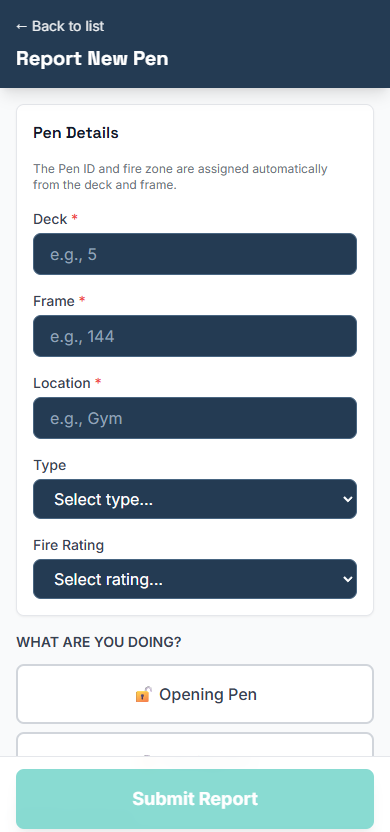
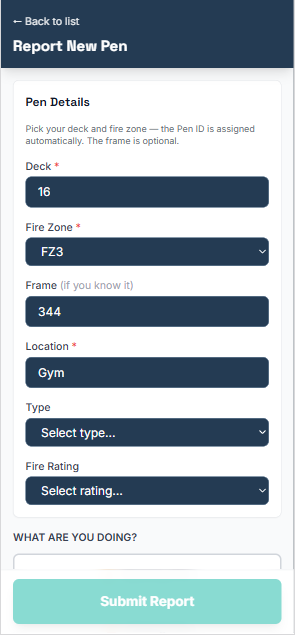
Contractor guide: fire-zone dropdown (frame optional)
Update the "Report New Pen" screenshot to the new fire-zone-picker form and the
step-2 wording (pick deck + fire zone; frame optional) to match the shipped change.

Changed region(s): [[0.0, 0.0, 1.0, 1.0]]

diff --git a/contractors.html b/contractors.html
@@ -104,11 +104,11 @@
                 <div class="step-num w-9 h-9 rounded-full bg-teal-500 text-white font-bold text-base flex items-center justify-center mb-4">2</div>
                 <h2 class="text-xl font-bold text-navy-900 mb-2">Choose your pen</h2>
                 <p class="text-gray-600 mb-2"><strong class="text-navy-900">Tap a penetration</strong> in your list to update it &mdash; or tap <strong class="text-navy-900">+ Report New Pen</strong> to log a new one.</p>
-                <p class="text-gray-600">For a new pen, just enter the <strong class="text-navy-900">deck, frame and location</strong>; the Pen&nbsp;ID and fire zone are worked out for you.</p>
+                <p class="text-gray-600">For a new pen, just pick the <strong class="text-navy-900">deck, fire zone and location</strong>; the Pen&nbsp;ID is worked out for you. Frame is optional.</p>
             </div>
             <div class="shrink-0 flex gap-3">
                 <div class="phone" style="width:152px"><img src="img/contractors/02-list.png" alt="List of penetrations to choose from"></div>
-                <div class="phone" style="width:152px"><img src="img/contractors/03-newpen.png" alt="Reporting a new pen: deck, frame and location"></div>
+                <div class="phone" style="width:152px"><img src="img/contractors/03-newpen.png" alt="Reporting a new pen: deck, fire zone and location"></div>
             </div>
         </div>
 
